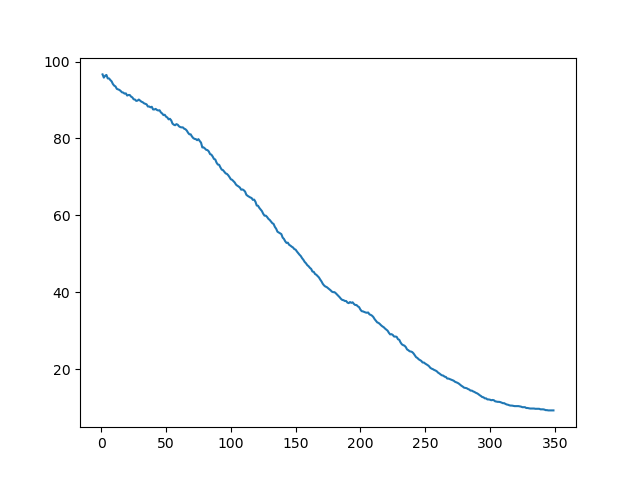
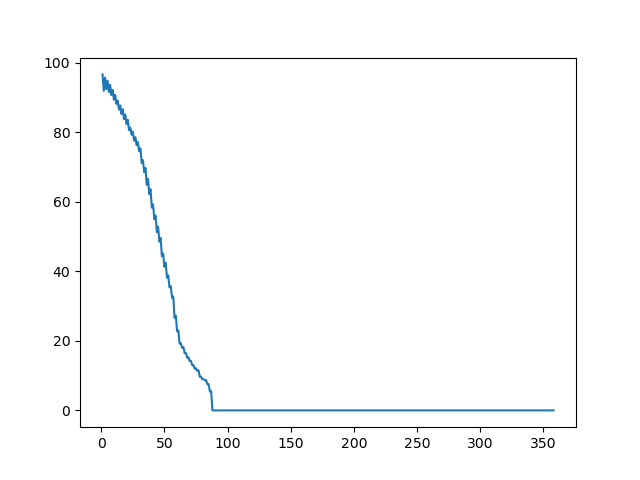
Practica 7 ajustes

diff --git a/Prácticas/Práctica_7/knn.py b/Prácticas/Práctica_7/knn.py
@@ -4,21 +4,27 @@ import matplotlib.pyplot as plt
 from sklearn.datasets import load_digits
 from sklearn.model_selection import train_test_split
 from sklearn.neighbors import KNeighborsClassifier
+from sklearn.multiclass import OneVsRestClassifier
+from sklearn.preprocessing import label_binarize
 
 
 def main():
     ''' Main script '''
-    X, y = load_digits(return_X_y=True)
+    digits = load_digits()
+    X = digits.data
+    y = digits.target
+
+    y = label_binarize(y, classes=[i for i in range(10)])
 
     X_train, X_test, y_train, y_test = train_test_split(
         X, y, test_size=.80, random_state=42
     )
 
-    neighbors = [k for k in range(1, 350)]
+    neighbors = [k for k in range(1, 359)]
     scores = []
 
-    for k in range(1, 350):
-        clf = KNeighborsClassifier(n_neighbors=k)
+    for k in range(1, 359):
+        clf = OneVsRestClassifier(KNeighborsClassifier(n_neighbors=k))
         clf.fit(X_train, y_train)
         scores.append(clf.score(X_test, y_test) * 100)
 
